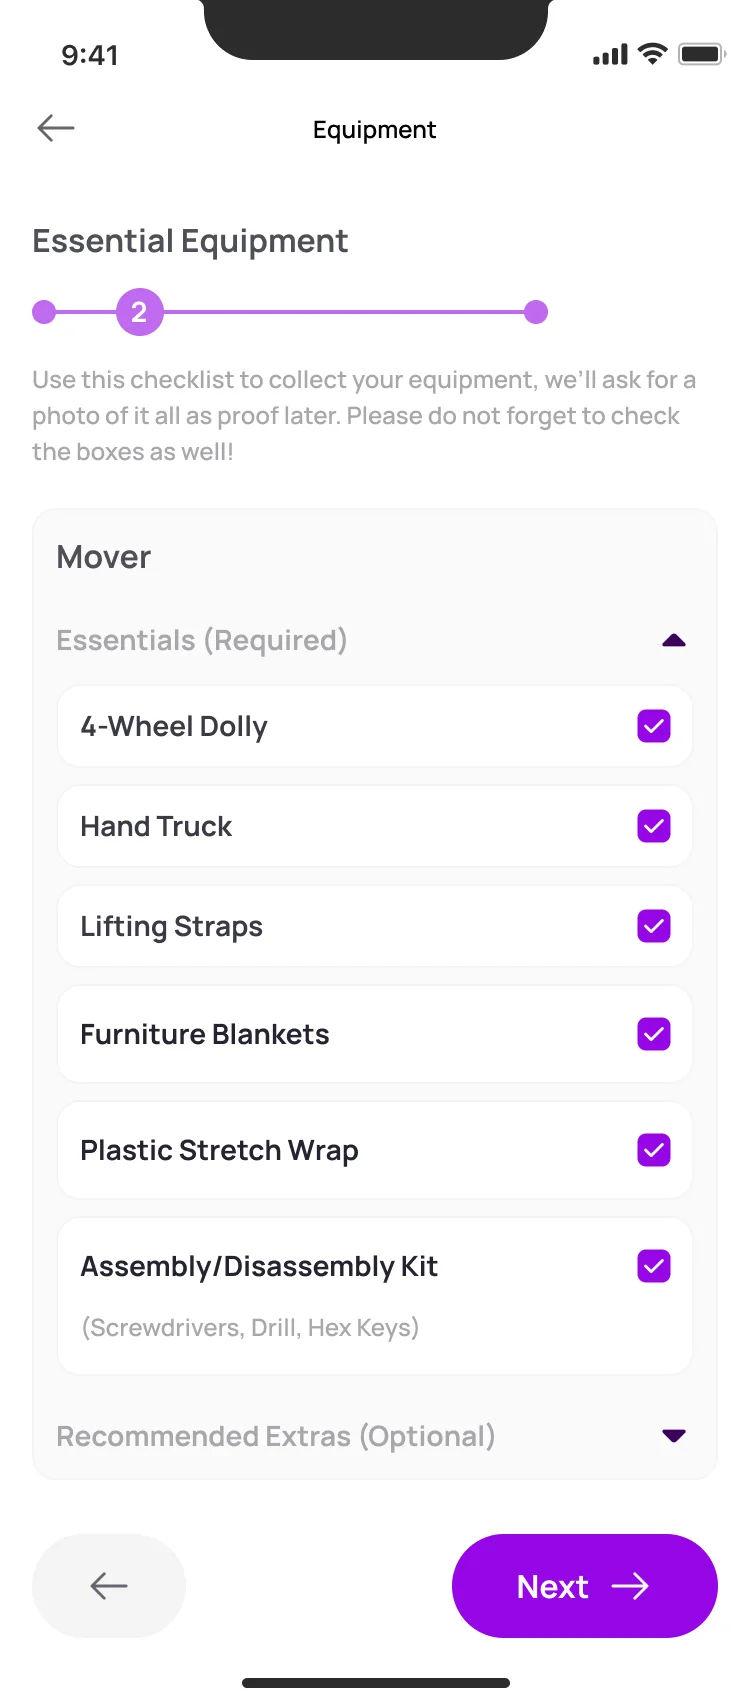
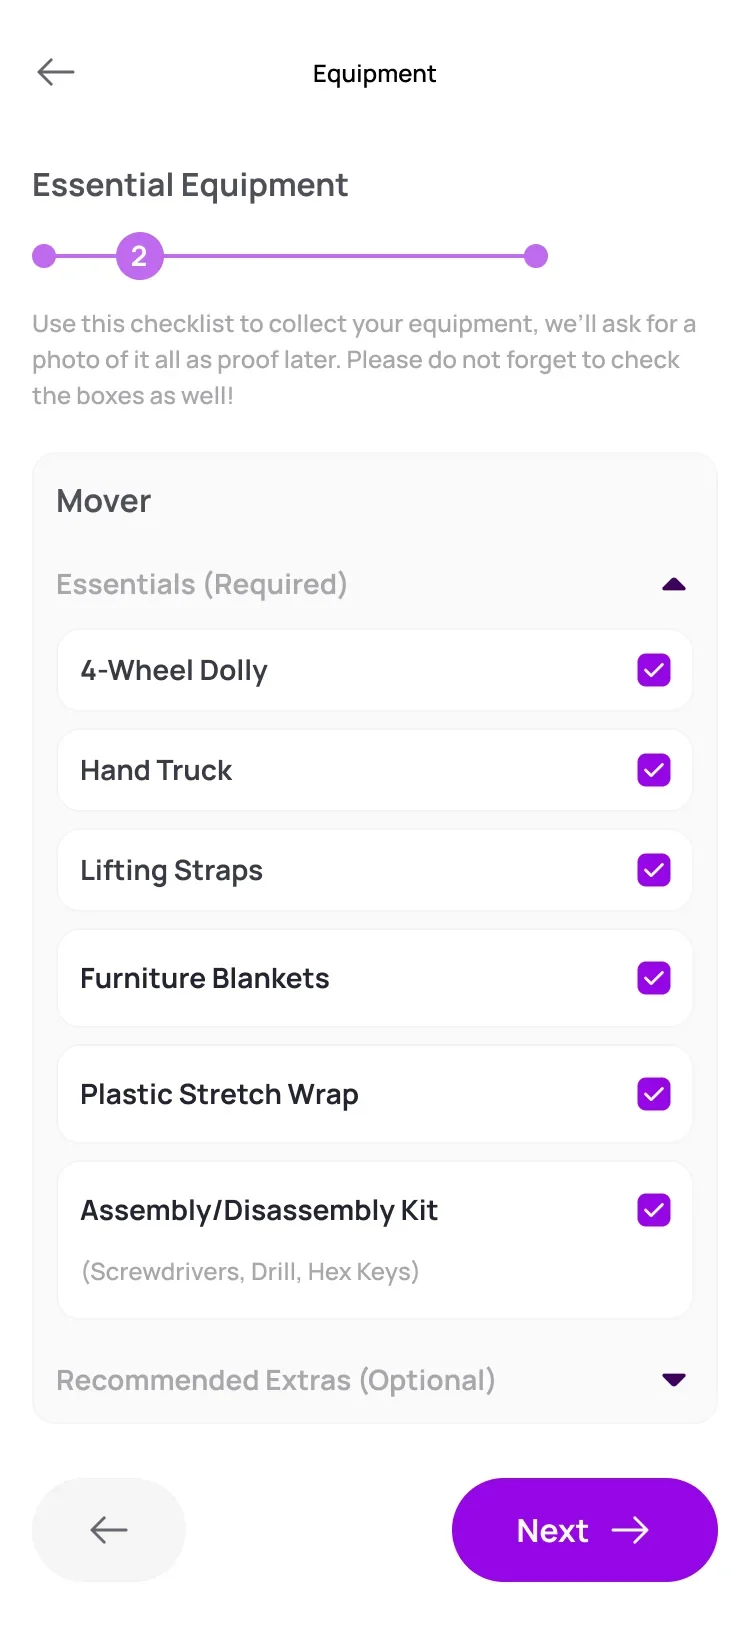
Muvr: screens without device chrome (status bar, notch, home indicator)
Same treatment as the Crypex screens: every screen shown is the app UI only.
Cover card and share image re-rendered with the cleaned screens.

diff --git a/work/muvr.html b/work/muvr.html
@@ -36,7 +36,7 @@
   <link rel="stylesheet" href="../assets/css/identity.css?v=24">
   <link rel="stylesheet" href="../assets/css/case.css?v=1">
   <link rel="stylesheet" href="../assets/css/case-crypex.css?v=3">
-  <link rel="stylesheet" href="../assets/css/case-muvr.css?v=6">
+  <link rel="stylesheet" href="../assets/css/case-muvr.css?v=7">
   <script src="../assets/js/main.js?v=5" defer></script>
   <script src="../assets/js/case-crypex.js?v=6" defer></script>
 </head>
@@ -103,9 +103,9 @@
               <p>One move, two apps</p>
             </div>
             <div class="mv-cover__screens">
-              <img src="../assets/img/muvr/home.webp" width="750" height="1624" alt="User app home: moves grouped as residential and commercial, each with its own illustration.">
-              <img src="../assets/img/muvr/help-home.webp" width="750" height="1624" alt="Driver app help centre: onboarding and tickets tabs, search and six illustrated categories.">
-              <img src="../assets/img/muvr/crew-dashboard-progress.webp" width="750" height="1624" alt="Driver app onboarding dashboard at 60%, with one recommended next step.">
+              <img src="../assets/img/muvr/home.webp" width="750" height="1550" alt="User app home: moves grouped as residential and commercial, each with its own illustration.">
+              <img src="../assets/img/muvr/help-home.webp" width="750" height="1550" alt="Driver app help centre: onboarding and tickets tabs, search and six illustrated categories.">
+              <img src="../assets/img/muvr/crew-dashboard-progress.webp" width="750" height="1550" alt="Driver app onboarding dashboard at 60%, with one recommended next step.">
             </div>
           </div>
         </div>
@@ -371,17 +371,17 @@
             </ul>
           </div>
           <div class="mv-shots mv-shots--3 cx-strip">
-            <img src="../assets/img/muvr/home.webp" width="750" height="1624" alt="Home on the Moves tab: a search field, residential moves (home, apartment, dorm room), commercial moves (office, store, warehouse) and Lift and Shift assistance under more options." loading="lazy">
-            <img src="../assets/img/muvr/search.webp" width="750" height="1624" alt="Search with “loading assistan” typed: the first result is Labor Only, Lift and Shift Assistance, with the matching word highlighted." loading="lazy">
-            <img src="../assets/img/muvr/search-empty.webp" width="750" height="1624" alt="Search with no results: a sad folder illustration, “Oops!” and a short line saying nothing matched." loading="lazy">
+            <img src="../assets/img/muvr/home.webp" width="750" height="1550" alt="Home on the Moves tab: a search field, residential moves (home, apartment, dorm room), commercial moves (office, store, warehouse) and Lift and Shift assistance under more options." loading="lazy">
+            <img src="../assets/img/muvr/search.webp" width="750" height="1550" alt="Search with “loading assistan” typed: the first result is Labor Only, Lift and Shift Assistance, with the matching word highlighted." loading="lazy">
+            <img src="../assets/img/muvr/search-empty.webp" width="750" height="1550" alt="Search with no results: a sad folder illustration, “Oops!” and a short line saying nothing matched." loading="lazy">
           </div>
         </article>
 
         <!-- F2 · Move types -->
         <article class="cx-feature cx-feature--flip">
           <div class="cx-feature__shots">
-            <img src="../assets/img/muvr/type-home.webp" width="750" height="1624" alt="Home Move: a one-line description, “Where are you moving from?” and a table comparing Standard, Premium and White-Glove." loading="lazy">
-            <img src="../assets/img/muvr/type-labor.webp" width="750" height="1624" alt="Labor-Only page: rows for rearranging, furniture and floor protection and staged placement." loading="lazy">
+            <img src="../assets/img/muvr/type-home.webp" width="750" height="1550" alt="Home Move: a one-line description, “Where are you moving from?” and a table comparing Standard, Premium and White-Glove." loading="lazy">
+            <img src="../assets/img/muvr/type-labor.webp" width="750" height="1550" alt="Labor-Only page: rows for rearranging, furniture and floor protection and staged placement." loading="lazy">
           </div>
           <div class="cx-feature__text">
             <p class="cx-label">Move types</p>
@@ -398,8 +398,8 @@
         <!-- F3 · Buildings -->
         <article class="cx-feature">
           <div class="cx-feature__shots">
-            <img src="../assets/img/muvr/pickup-apartment.webp" width="750" height="1630" alt="Pickup details for an apartment: unit number 57B, access by elevator and a time window from 8 am to 6 pm." loading="lazy">
-            <img src="../assets/img/muvr/dropoff-warehouse.webp" width="750" height="2126" alt="Drop-off details for a warehouse: both addresses on top, 9th floor by freight elevator, access hours from 8 am to 6 pm and a note about pre-scheduled loading dock slots." loading="lazy">
+            <img src="../assets/img/muvr/pickup-apartment.webp" width="750" height="1556" alt="Pickup details for an apartment: unit number 57B, access by elevator and a time window from 8 am to 6 pm." loading="lazy">
+            <img src="../assets/img/muvr/dropoff-warehouse.webp" width="750" height="2052" alt="Drop-off details for a warehouse: both addresses on top, 9th floor by freight elevator, access hours from 8 am to 6 pm and a note about pre-scheduled loading dock slots." loading="lazy">
           </div>
           <div class="cx-feature__text">
             <p class="cx-label">Booking · steps 1 and 3</p>
@@ -415,8 +415,8 @@
         <!-- F4 · Items -->
         <article class="cx-feature cx-feature--flip">
           <div class="cx-feature__shots">
-            <img src="../assets/img/muvr/items-two.webp" width="750" height="1624" alt="Home layout with two floors and four bedrooms, and two items listed, a refrigerator and a washing machine, each with its size and a 200 to 300 lbs weight range." loading="lazy">
-            <img src="../assets/img/muvr/items-remove.webp" width="750" height="1624" alt="A dialog over the list: Remove Item. Are you sure you want to remove the refrigerator from your listing? No, and Yes, I’m sure." loading="lazy">
+            <img src="../assets/img/muvr/items-two.webp" width="750" height="1550" alt="Home layout with two floors and four bedrooms, and two items listed, a refrigerator and a washing machine, each with its size and a 200 to 300 lbs weight range." loading="lazy">
+            <img src="../assets/img/muvr/items-remove.webp" width="750" height="1550" alt="A dialog over the list: Remove Item. Are you sure you want to remove the refrigerator from your listing? No, and Yes, I’m sure." loading="lazy">
           </div>
           <div class="cx-feature__text">
             <p class="cx-label">Booking · step 2</p>
@@ -465,8 +465,8 @@
         <!-- D1 · Sign in -->
         <article class="cx-feature">
           <div class="cx-feature__shots">
-            <img src="../assets/img/muvr/login.webp" width="750" height="1624" alt="Get started with Muvr: a mobile number field with a country picker, Continue, and a Find my account link for people who changed their number." loading="lazy">
-            <img src="../assets/img/muvr/login-found.webp" width="750" height="1624" alt="“Is this you?” sheet: an existing account was found for that number, with the driver’s name, a Yes, it’s me button and No, this is not me." loading="lazy">
+            <img src="../assets/img/muvr/login.webp" width="750" height="1550" alt="Get started with Muvr: a mobile number field with a country picker, Continue, and a Find my account link for people who changed their number." loading="lazy">
+            <img src="../assets/img/muvr/login-found.webp" width="750" height="1550" alt="“Is this you?” sheet: an existing account was found for that number, with the driver’s name, a Yes, it’s me button and No, this is not me." loading="lazy">
           </div>
           <div class="cx-feature__text">
             <p class="cx-label">Sign-in and sign-up</p>
@@ -482,8 +482,8 @@
         <!-- D2 · Roles -->
         <article class="cx-feature cx-feature--flip">
           <div class="cx-feature__shots">
-            <img src="../assets/img/muvr/crew-welcome.webp" width="750" height="1624" alt="Welcome, John: a friendly character with flags, a short note about completing onboarding and an identity check, and a Begin button." loading="lazy">
-            <img src="../assets/img/muvr/crew-roles.webp" width="750" height="2908" alt="Role selection: Mover, Hauler and Courier, with the Mover card expanded to explain what a mover does, the requirements, and driver versus helper." loading="lazy">
+            <img src="../assets/img/muvr/crew-welcome.webp" width="750" height="1550" alt="Welcome, John: a friendly character with flags, a short note about completing onboarding and an identity check, and a Begin button." loading="lazy">
+            <img src="../assets/img/muvr/crew-roles.webp" width="750" height="2834" alt="Role selection: Mover, Hauler and Courier, with the Mover card expanded to explain what a mover does, the requirements, and driver versus helper." loading="lazy">
           </div>
           <div class="cx-feature__text">
             <p class="cx-label">Roles</p>
@@ -499,8 +499,8 @@
         <!-- D3 · Dashboard -->
         <article class="cx-feature">
           <div class="cx-feature__shots">
-            <img src="../assets/img/muvr/crew-dashboard-progress.webp" width="750" height="1624" alt="Onboarding dashboard at 60%: three items left, the certificate of insurance recommended next, and optional and completed sections folded away." loading="lazy">
-            <img src="../assets/img/muvr/crew-accepted-popup.webp" width="750" height="1624" alt="Dashboard with a pop-up: Accepted Submission. Your Lifting Video submission has been verified and accepted, with See Updates." loading="lazy">
+            <img src="../assets/img/muvr/crew-dashboard-progress.webp" width="750" height="1550" alt="Onboarding dashboard at 60%: three items left, the certificate of insurance recommended next, and optional and completed sections folded away." loading="lazy">
+            <img src="../assets/img/muvr/crew-accepted-popup.webp" width="750" height="1550" alt="Dashboard with a pop-up: Accepted Submission. Your Lifting Video submission has been verified and accepted, with See Updates." loading="lazy">
           </div>
           <div class="cx-feature__text">
             <p class="cx-label">Onboarding dashboard</p>
@@ -520,9 +520,9 @@
             <p>A vehicle is a short form, safety gear is a checklist and skills are switches. Each requirement asks in the way that fits what it proves, with the same header, progress and buttons around it.</p>
           </div>
           <div class="mv-gallery mv-gallery--3 cx-strip">
-            <figure><img src="../assets/img/muvr/req-vehicle.webp" width="750" height="1624" alt="Vehicle information, step one: a list of vehicle types with Pickup Truck selected." loading="lazy"><figcaption><b>Vehicle</b><span>Type first, details next</span></figcaption></figure>
-            <figure><img src="../assets/img/muvr/req-equipment.webp" width="750" height="1706" alt="Essential equipment checklist for movers: 4-wheel dolly, hand truck, lifting straps, furniture blankets, stretch wrap and a disassembly kit, all ticked." loading="lazy"><figcaption><b>Equipment</b><span>A checklist, then a photo</span></figcaption></figure>
-            <figure><img src="../assets/img/muvr/req-skills.webp" width="750" height="1986" alt="Highlight your skills: core skills as switches, with stairs navigation, fragile items, communication and loading switched on." loading="lazy"><figcaption><b>Skills</b><span>Switches, grouped by service</span></figcaption></figure>
+            <figure><img src="../assets/img/muvr/req-vehicle.webp" width="750" height="1550" alt="Vehicle information, step one: a list of vehicle types with Pickup Truck selected." loading="lazy"><figcaption><b>Vehicle</b><span>Type first, details next</span></figcaption></figure>
+            <figure><img src="../assets/img/muvr/req-equipment.webp" width="750" height="1632" alt="Essential equipment checklist for movers: 4-wheel dolly, hand truck, lifting straps, furniture blankets, stretch wrap and a disassembly kit, all ticked." loading="lazy"><figcaption><b>Equipment</b><span>A checklist, then a photo</span></figcaption></figure>
+            <figure><img src="../assets/img/muvr/req-skills.webp" width="750" height="1912" alt="Highlight your skills: core skills as switches, with stairs navigation, fragile items, communication and loading switched on." loading="lazy"><figcaption><b>Skills</b><span>Switches, grouped by service</span></figcaption></figure>
           </div>
         </article>
 
@@ -533,9 +533,9 @@
             <p>The same moments repeat across the eight requirements that need a review, so drivers learn the pattern once. Waiting has a shape, good news gets a small celebration and a decline is never a dead end.</p>
           </div>
           <div class="mv-gallery mv-gallery--3 cx-strip">
-            <figure><img src="../assets/img/muvr/st-verifying.webp" width="750" height="1624" alt="Lifting video under review: an illustration of a character with a video, and a note that the review takes 24 to 48 hours." loading="lazy"><figcaption><b>In review</b><span>24 to 48 hours, then a notification</span></figcaption></figure>
-            <figure><img src="../assets/img/muvr/st-accepted.webp" width="750" height="1624" alt="Driver’s licence verified: a character waving flags and Verification Completed with a green badge." loading="lazy"><figcaption><b>Accepted</b><span>A small celebration</span></figcaption></figure>
-            <figure><img src="../assets/img/muvr/crew-declined.webp" width="750" height="1624" alt="Declined profile photo: a short explanation, a link to the decline report, Help and Retake Submission." loading="lazy"><figcaption><b>Declined</b><span>A report, and a retake</span></figcaption></figure>
+            <figure><img src="../assets/img/muvr/st-verifying.webp" width="750" height="1550" alt="Lifting video under review: an illustration of a character with a video, and a note that the review takes 24 to 48 hours." loading="lazy"><figcaption><b>In review</b><span>24 to 48 hours, then a notification</span></figcaption></figure>
+            <figure><img src="../assets/img/muvr/st-accepted.webp" width="750" height="1550" alt="Driver’s licence verified: a character waving flags and Verification Completed with a green badge." loading="lazy"><figcaption><b>Accepted</b><span>A small celebration</span></figcaption></figure>
+            <figure><img src="../assets/img/muvr/crew-declined.webp" width="750" height="1550" alt="Declined profile photo: a short explanation, a link to the decline report, Help and Retake Submission." loading="lazy"><figcaption><b>Declined</b><span>A report, and a retake</span></figcaption></figure>
           </div>
         </article>
 
@@ -550,10 +550,10 @@
             </ul>
           </div>
           <div class="mv-gallery cx-strip">
-            <figure><img src="../assets/img/muvr/help-home.webp" width="750" height="1624" alt="Help centre home: onboarding and tickets tabs, a search field and six illustrated categories." loading="lazy"><figcaption><b>Home</b><span>Search and illustrated topics</span></figcaption></figure>
-            <figure><img src="../assets/img/muvr/help-categories.webp" width="750" height="1624" alt="All categories as a list: onboarding, roles, tickets and contact, requirements, optionals and verification, then Contact Us." loading="lazy"><figcaption><b>Categories</b><span>Named after onboarding</span></figcaption></figure>
-            <figure><img src="../assets/img/muvr/help-article.webp" width="750" height="1882" alt="Article: Changing your role, with steps to change it, whether you can keep more than one role, and Was this helpful?" loading="lazy"><figcaption><b>Article</b><span>One question, one answer</span></figcaption></figure>
-            <figure><img src="../assets/img/muvr/help-tickets.webp" width="750" height="1624" alt="Ticket history grouped by date: payout, vehicle details, a COI question and a role change, each with its status." loading="lazy"><figcaption><b>Tickets</b><span>Status at a glance</span></figcaption></figure>
+            <figure><img src="../assets/img/muvr/help-home.webp" width="750" height="1550" alt="Help centre home: onboarding and tickets tabs, a search field and six illustrated categories." loading="lazy"><figcaption><b>Home</b><span>Search and illustrated topics</span></figcaption></figure>
+            <figure><img src="../assets/img/muvr/help-categories.webp" width="750" height="1550" alt="All categories as a list: onboarding, roles, tickets and contact, requirements, optionals and verification, then Contact Us." loading="lazy"><figcaption><b>Categories</b><span>Named after onboarding</span></figcaption></figure>
+            <figure><img src="../assets/img/muvr/help-article.webp" width="750" height="1808" alt="Article: Changing your role, with steps to change it, whether you can keep more than one role, and Was this helpful?" loading="lazy"><figcaption><b>Article</b><span>One question, one answer</span></figcaption></figure>
+            <figure><img src="../assets/img/muvr/help-tickets.webp" width="750" height="1550" alt="Ticket history grouped by date: payout, vehicle details, a COI question and a role change, each with its status." loading="lazy"><figcaption><b>Tickets</b><span>Status at a glance</span></figcaption></figure>
           </div>
         </article>
 

diff --git a/index.html b/index.html
@@ -197,7 +197,7 @@
               <span class="frame__label"><b>Case 01</b> Moving marketplace <span class="dim">2 apps · 2025</span></span>
               <span class="frame__handles"><span></span></span>
               <div class="case__thumb">
-                <img src="assets/img/muvr/cover-card.webp?v=3" width="1200" height="750" alt="" loading="lazy" style="position: absolute; inset: 0; width: 100%; height: 100%; object-fit: cover;">
+                <img src="assets/img/muvr/cover-card.webp?v=4" width="1200" height="750" alt="" loading="lazy" style="position: absolute; inset: 0; width: 100%; height: 100%; object-fit: cover;">
                 <div class="spec" style="left: 4%; bottom: 8%;">2 APPS · REVAMP</div>
               </div>
               <div class="case__body">
@@ -218,7 +218,7 @@
               <span class="frame__label"><b>Case 02</b> Crypto payments <span class="dim">iOS app · 0 → 1</span></span>
               <span class="frame__handles"><span></span></span>
               <div class="case__thumb">
-                <img class="crypex" src="assets/img/crypex/cover-card.webp?v=3" width="1200" height="750" alt="" loading="lazy">
+                <img class="crypex" src="assets/img/crypex/cover-card.webp?v=4" width="1200" height="750" alt="" loading="lazy">
                 <div class="spec" style="right: 4%; bottom: 8%;">0 → 1 · DESIGN COMPLETE</div>
               </div>
               <div class="case__body">
